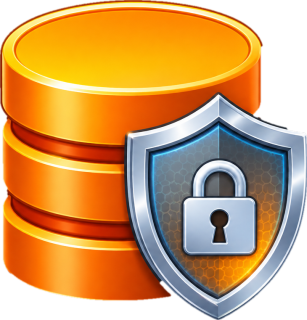
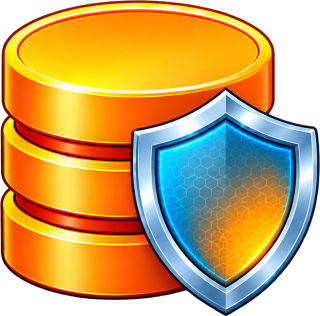
Страница задания: вертикальные карточки, диск с замком и без
Карточки источника и назначения теперь выше, чем шире, картинка над текстом и на 25 %
крупнее. Диск вырезан из images/disks.png: с замком, когда том источника зашифрован,
иначе без замка.

diff --git a/crates/gui/frontend/src/views/JobDashboard.svelte b/crates/gui/frontend/src/views/JobDashboard.svelte
@@ -5,6 +5,7 @@
     jobs, jobStatus, lastSuccessfulRun, sourceSummary, runJob, cancelRunning, runClock, etaMs,
   } from '../lib/jobStore.svelte';
   import sourcePic from '../assets/backup-source.png';
+  import sourceLockedPic from '../assets/backup-source-locked.png';
   import destPic from '../assets/backup-dest.png';
   import InfoModal from '../components/InfoModal.svelte';
   import RunSummary from '../components/RunSummary.svelte';
@@ -266,7 +267,7 @@
 <div class="dash">
   <div class="flow">
     <div class="card">
-      <img class="pic" src={sourcePic} alt="" draggable="false" />
+      <img class="pic" src={encryptedSource ? sourceLockedPic : sourcePic} alt="" draggable="false" />
       <div class="card-text">
         <div class="card-title">{job.name}</div>
         <div class="card-sub">{sourceSummary(job)}</div>
@@ -307,7 +308,7 @@
       {/if}
     </div>
 
-    <div class="card dest">
+    <div class="card">
       <img class="pic" src={destPic} alt="" draggable="false" />
       <div class="card-text">
         <div class="card-title">{job.name}</div>
@@ -513,22 +514,14 @@
   .page { height: 100%; display: flex; flex-direction: column; }
   .dash { flex: 1; overflow: auto; width: 100%; padding: 34px 44px 20px; display: flex; flex-direction: column; }
   .bottom { margin-top: auto; flex-shrink: 0; }
-  .flow { display: flex; align-items: stretch; justify-content: center; container-type: inline-size; }
-  /* Wider than tall, the pictures on the outer edges: the source's on the left,
-     the destination's on the right. */
-  .card { flex: 1; min-width: 0; border: 1px solid var(--border); border-radius: 8px; padding: 16px 20px; background: var(--card-bg); display: flex; align-items: center; gap: 18px; }
-  .card.dest { flex-direction: row-reverse; text-align: right; }
-  .card-text { flex: 1; min-width: 0; display: flex; flex-direction: column; gap: 6px; }
-  /* No room for a picture beside the words in a narrow window: above them. */
-  @container (max-width: 760px) {
-    .card, .card.dest { flex-direction: column; text-align: center; gap: 10px; padding: 14px; }
-    .card-text { flex: none; width: 100%; }
-    .connector { width: 80px; }
-    .dash-line { display: none; }
-  }
+  .flow { display: flex; align-items: stretch; justify-content: center; }
+  /* Taller than wide, the picture above the words; from the top, so the two
+     pictures stay level when one card has more to say. */
+  .card { flex: 1; min-width: 0; max-width: 240px; min-height: 280px; border: 1px solid var(--border); border-radius: 8px; padding: 28px 18px 24px; text-align: center; background: var(--card-bg); display: flex; flex-direction: column; align-items: center; gap: 16px; }
+  .card-text { width: 100%; display: flex; flex-direction: column; gap: 6px; }
   /* The logo's rim (Sidebar.svelte): the same shifted copies of the silhouette. */
   .pic {
-    height: 88px;
+    height: 110px;
     width: auto;
     flex-shrink: 0;
     filter:

diff --git a/images/README.md b/images/README.md
@@ -11,4 +11,8 @@
 
 `backup-forder.png` — исходник картинок страницы задания: слева источник, справа
 назначение, тёмный фон со свечением. Вырезанные из него значки с прозрачным фоном —
-`crates/gui/frontend/src/assets/backup-source.png` и `backup-dest.png`.
+`crates/gui/frontend/src/assets/backup-dest.png` (папка).
+
+`disks.png` — исходник диска, прозрачный фон: слева без замка, справа с замком.
+Из него `assets/backup-source.png` и `backup-source-locked.png`; диск с замком
+показывается, когда источник задания зашифрован.
